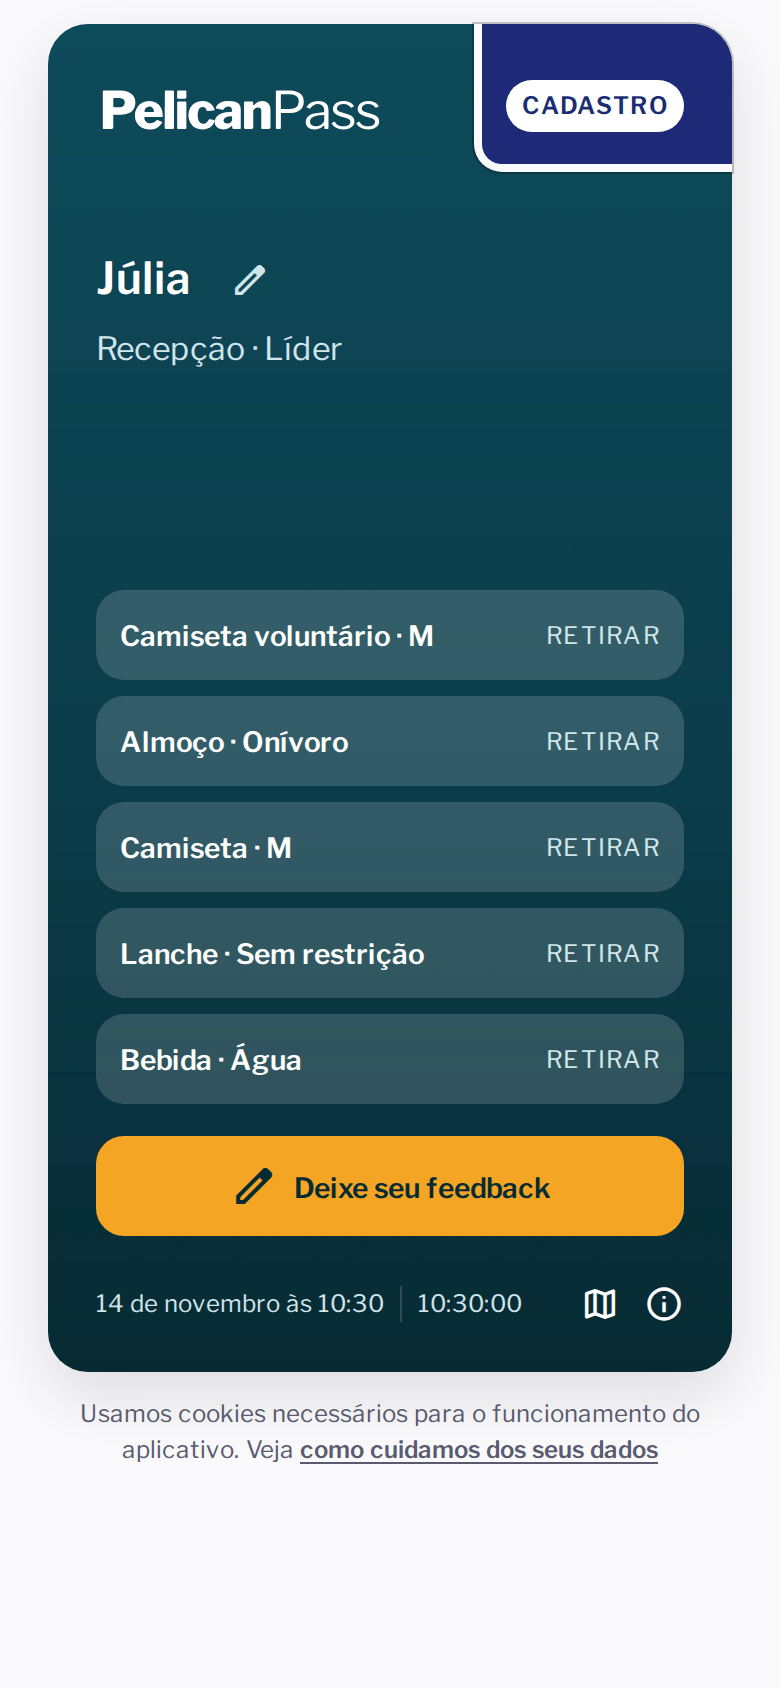
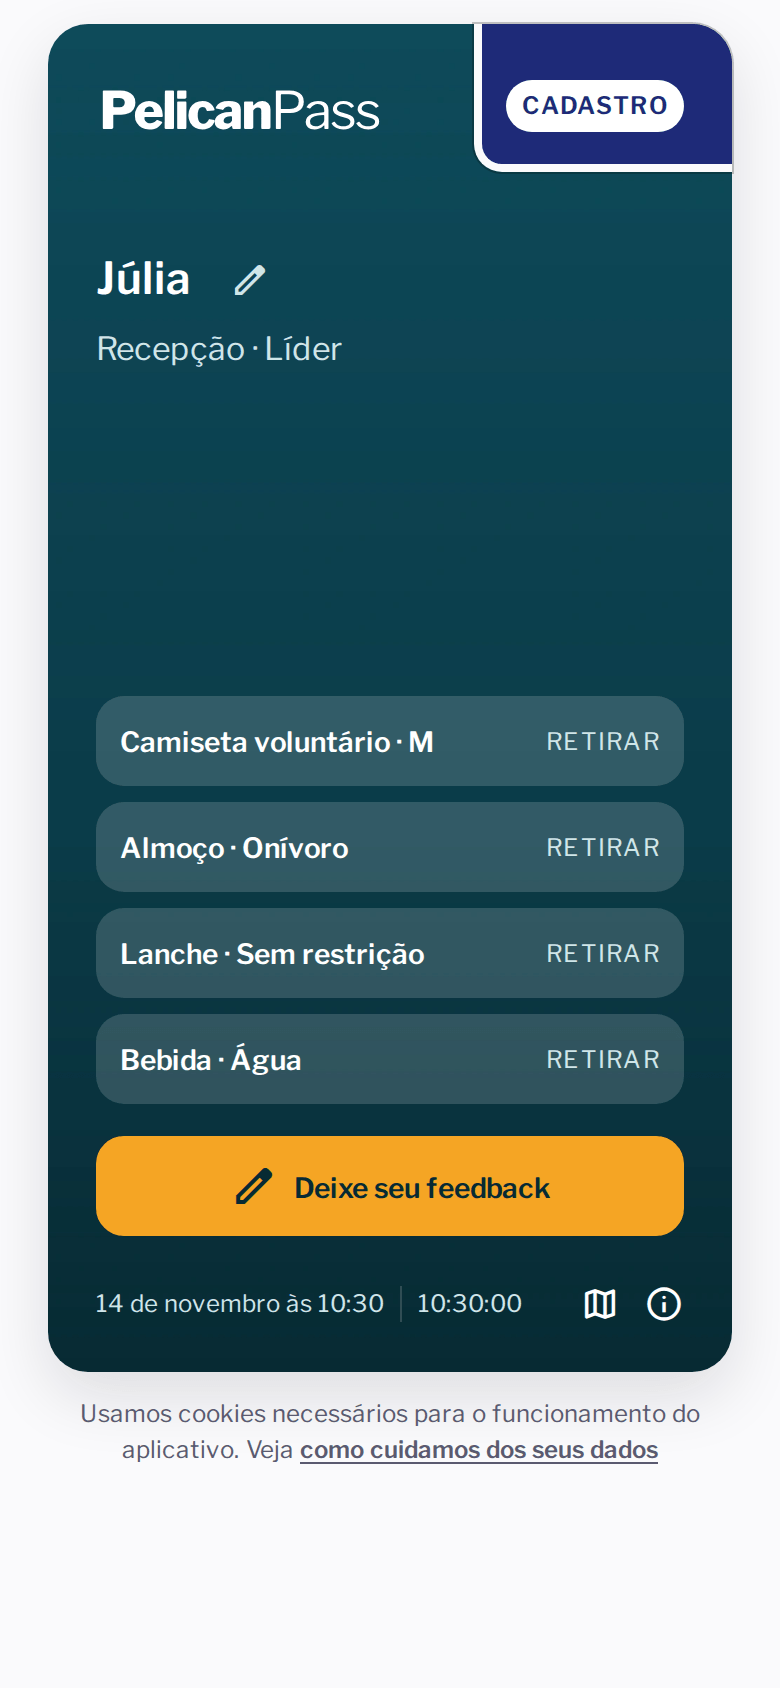
fix(demo): give demo volunteers only the volunteer shirt
Volunteers held both the participant and the volunteer shirt, so the
volunteer pass showed two shirt chips. Each volunteer's size moves to
the volunteer shirt, and the README screenshot is recaptured.

diff --git a/src/web/client/demo/roster.ts b/src/web/client/demo/roster.ts
@@ -89,7 +89,10 @@ const participant = (
   ...options,
 });
 
-/** Builds a volunteer, who holds every item and carries no check-in number. */
+/**
+ * Builds a volunteer, who holds every item but the participant shirt and
+ * carries no check-in number.
+ */
 const volunteer = (
   code: string,
   name: string,
@@ -101,7 +104,7 @@ const volunteer = (
     | 'canDraw'
     | 'showAdminLink'
     | 'accessTier'
-    | 'tshirtSize'
+    | 'tshirtVolunteerSize'
   >,
 ): RosterEntry => ({
   code,
@@ -111,7 +114,7 @@ const volunteer = (
   mealOption: 'Sem restrição',
   drinkOption: 'Água',
   lunchOption: 'Onívoro',
-  tshirtVolunteerSize: 'M',
+  tshirtSize: null,
   ...options,
 });
 
@@ -220,7 +223,7 @@ export const DEMO_ROSTER: readonly RosterEntry[] = [
     canDraw: true,
     showAdminLink: true,
     accessTier: 'edit',
-    tshirtSize: 'M',
+    tshirtVolunteerSize: 'M',
   }),
   volunteer('v6b3k7', 'Bruno Siqueira', '5511971', {
     checkedIn: true,
@@ -228,7 +231,7 @@ export const DEMO_ROSTER: readonly RosterEntry[] = [
     canDraw: false,
     showAdminLink: false,
     accessTier: 'redeem',
-    tshirtSize: 'G',
+    tshirtVolunteerSize: 'G',
   }),
   volunteer('v9d1m4', 'Aline Peixoto', '5521986', {
     checkedIn: true,
@@ -236,7 +239,7 @@ export const DEMO_ROSTER: readonly RosterEntry[] = [
     canDraw: true,
     showAdminLink: false,
     accessTier: 'raffle',
-    tshirtSize: 'P',
+    tshirtVolunteerSize: 'P',
   }),
   volunteer('v3f8p2', 'Diego Amaral', '5531979', {
     checkedIn: true,
@@ -244,7 +247,7 @@ export const DEMO_ROSTER: readonly RosterEntry[] = [
     canDraw: false,
     showAdminLink: false,
     accessTier: 'tshirt',
-    tshirtSize: 'GG',
+    tshirtVolunteerSize: 'GG',
   }),
   volunteer('v7h5t1', 'Fernanda Quadros', '5541992', {
     checkedIn: true,
@@ -252,6 +255,6 @@ export const DEMO_ROSTER: readonly RosterEntry[] = [
     canDraw: false,
     showAdminLink: false,
     accessTier: 'none',
-    tshirtSize: 'M',
+    tshirtVolunteerSize: 'M',
   }),
 ];
